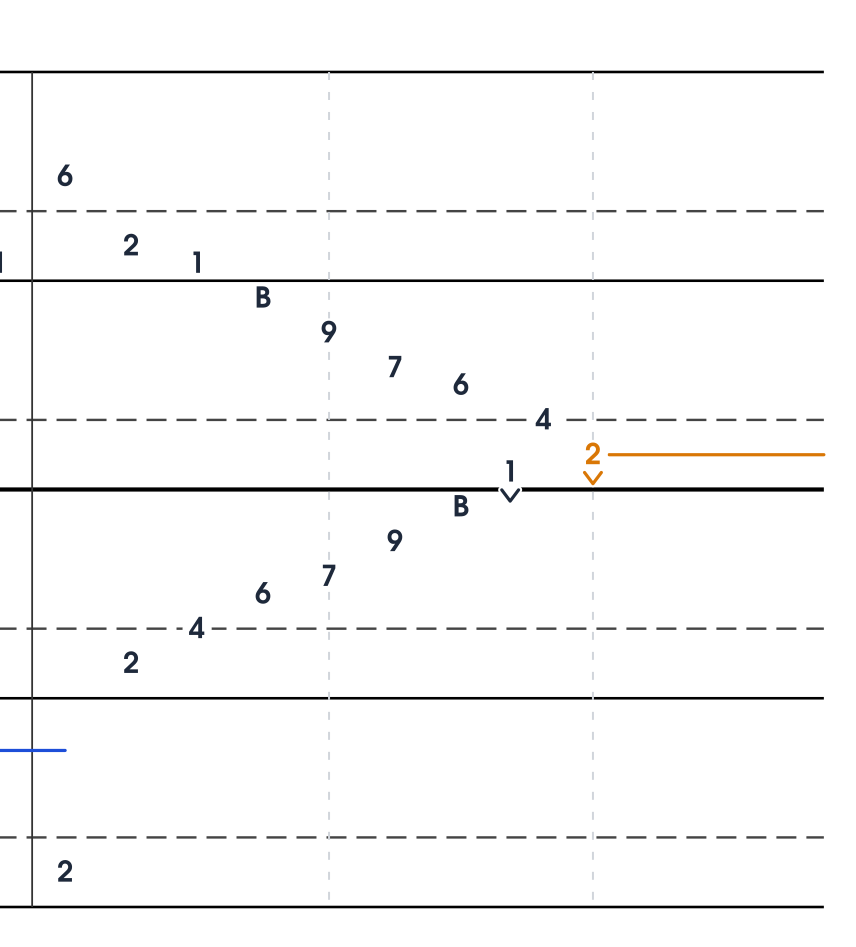
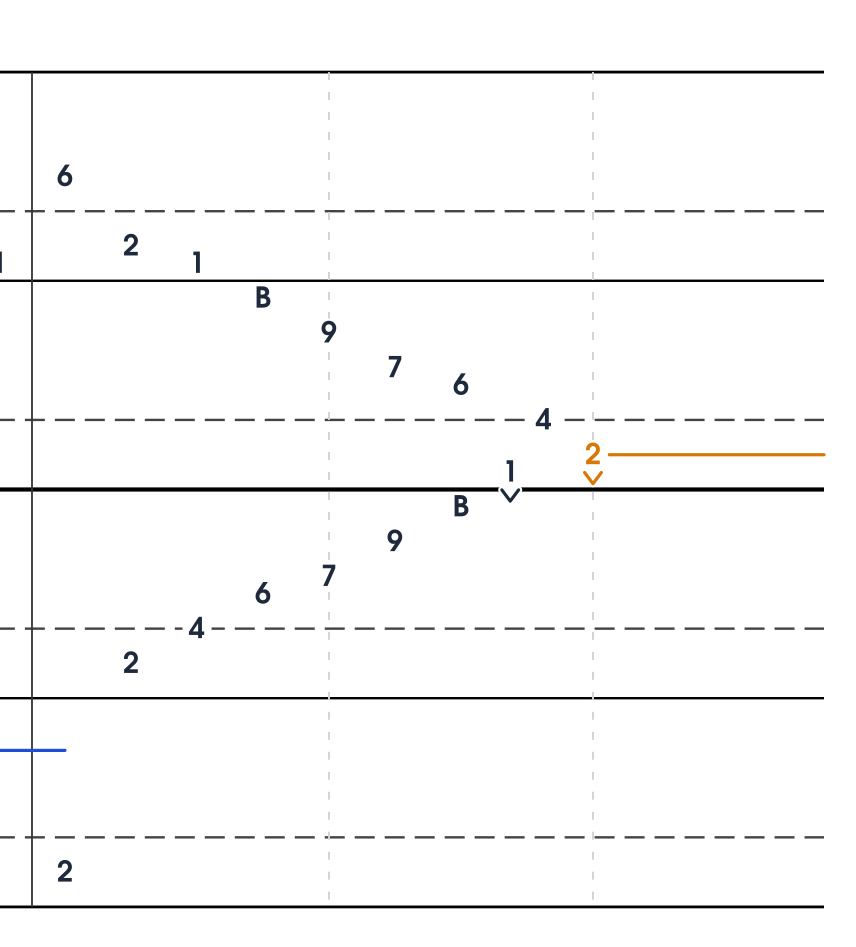
refactor(engraving): refine accolade offset and redistribute octave line weights
- Accolade: slender 7.5pt reach (1.91pt belly) with 1.8pt left breathing offset into margin
- Staff hierarchy: redistribute octave lines with zero net weight (outer 0.70pt, inner 0.60pt, Middle C 1.05pt)
- Barlines: slender 0.45pt visibly lighter than staff lines
- Update unit tests and regenerate docs crops

diff --git a/test/print-layout.test.ts b/test/print-layout.test.ts
@@ -10,6 +10,7 @@ import {
   getSystemGeometry,
   getVerticalAccoladePath,
   ACCOLADE_WIDTH_PT,
+  ACCOLADE_OFFSET_LEFT_PT,
   ACCOLADE_GAP_PT,
   ACCOLADE_THICKNESS_PT,
   NOTEHEAD_KNOCKOUT_RADIUS_PT,
@@ -192,15 +193,16 @@ test('Landscape 2-System Horizontal Engraving Invariant: 4-page spread for Bach 
   );
 });
 
-test('Classical Vertical Accolade Invariant: 8pt slender copperplate curly brace clasping o1–o5 on the left margin', () => {
+test('Classical Vertical Accolade Invariant: slender copperplate curly brace clasping o1–o5 on the left margin', () => {
   const score = buildBachGoldbergVar1Score();
   const layout = computeColumnarLayout(score);
   const svgs = renderAllPagesToSvg(layout);
 
-  // Classical curly brace proportions: 8.0pt reach, 2.0pt swell, 8.0pt margin gap
-  assert.equal(ACCOLADE_WIDTH_PT, 8.0, 'Accolade reach must be 8.0pt');
-  assert.equal(ACCOLADE_THICKNESS_PT, 2.0, 'Accolade swell must be 2.0pt');
+  // Classical curly brace proportions: 7.5pt reach, 1.9pt swell, 8.0pt margin gap, 1.8pt offset
+  assert.equal(ACCOLADE_WIDTH_PT, 7.5, 'Accolade reach must be 7.5pt');
+  assert.equal(ACCOLADE_THICKNESS_PT, 1.9, 'Accolade swell must be 1.9pt');
   assert.equal(ACCOLADE_GAP_PT, 8.0, 'Accolade gap must be 8.0pt');
+  assert.equal(ACCOLADE_OFFSET_LEFT_PT, 1.8, 'Accolade offset must be 1.8pt');
 
   // The exported path generator is deterministic and spans the requested vertical range
   const direct = getVerticalAccoladePath(65.0, 106.35, 231.15, 11.0, 2.4);
@@ -229,7 +231,7 @@ test('Classical Vertical Accolade Invariant: 8pt slender copperplate curly brace
   assert.match(path, /^M [\d.]+ [\d.]+ C [^"]+ Z$/, 'Accolade must be a closed sculptural path');
   assert.equal(
     path,
-    getVerticalAccoladePath(geo0.staffLeftPt, geo0.staffTopY, geo0.staffBotY, ACCOLADE_WIDTH_PT, ACCOLADE_THICKNESS_PT),
+    getVerticalAccoladePath(geo0.staffLeftPt - ACCOLADE_OFFSET_LEFT_PT, geo0.staffTopY, geo0.staffBotY, ACCOLADE_WIDTH_PT, ACCOLADE_THICKNESS_PT),
     'Rendered accolade must use the classical calligraphic curly brace geometry'
   );
 
@@ -260,15 +262,15 @@ test('Classical Vertical Accolade Invariant: 8pt slender copperplate curly brace
     `Accolade cusp must point at Middle C y(48) = ${y48.toFixed(2)}`
   );
 
-  // Brace tips clasp the open staff at staffLeftPt
-  assert.ok(Math.abs(maxX - geo0.staffLeftPt) < 0.01, 'Accolade tips must clasp the staff at staffLeft');
+  // Brace tips clasp the open staff at staffLeftPt - ACCOLADE_OFFSET_LEFT_PT
+  assert.ok(Math.abs(maxX - (geo0.staffLeftPt - ACCOLADE_OFFSET_LEFT_PT)) < 0.01, 'Accolade tips must clasp at staffLeft - offset');
   assert.ok(minX > 0, 'Accolade must remain inside the paper');
   assert.ok(
     Math.abs(geo0.staffLeftPt - (marginPt + ACCOLADE_WIDTH_PT + ACCOLADE_GAP_PT)) < 0.01,
     'The staff must open exactly one accolade + gap from the margin'
   );
 
-  // Classical curly brace aspect ratio (~1:10 to 1:20)
+  // Classical curly brace aspect ratio (~1:10 to 1:30)
   const width = maxX - minX;
   const aspect = (geo0.staffBotY - geo0.staffTopY) / width;
   assert.ok(aspect > 10 && aspect < 30, `Accolade aspect ratio must be elegant (got 1:${aspect.toFixed(1)})`);
@@ -305,13 +307,14 @@ test('Horizontal Staff Topography Invariant: Middle C spine, octave lines, landm
     assert.ok(Math.abs(spineLines[0].x1 - geo.staffLeftPt) < 0.01, 'Spine must emerge cleanly from the accolade at the staff head');
     assert.ok(Math.abs(spineLines[0].x2 - geo.staffRightPt) < 0.01, 'Spine must run to the page margin');
 
-    // 2. Octaves (p = 24, 36, 60, 72): solid horizontal lines (0.65pt, #000000)
+    // 2. Octaves: outer octaves (p = 24, 72) at 0.70pt; inner octaves (p = 36, 60) at 0.60pt
     for (const octavePitch of [24, 36, 60, 72]) {
       const y = round2(geo.yForPitch(octavePitch));
+      const expectedWidth = (octavePitch === 24 || octavePitch === 72) ? '0.7' : '0.6';
       const octaveLines = lines.filter(
-        (l) => l.y1 === l.y2 && l.stroke === '#000000' && l.width === '0.65' && round2(l.y1) === y
+        (l) => l.y1 === l.y2 && l.stroke === '#000000' && l.width === expectedWidth && round2(l.y1) === y
       );
-      assert.equal(octaveLines.length, 1, `System ${s + 1} octave line p=${octavePitch} must be horizontal`);
+      assert.equal(octaveLines.length, 1, `System ${s + 1} octave line p=${octavePitch} must be horizontal with width ${expectedWidth}`);
     }
 
     // 3. Landmark 4 (p = 28, 40, 52, 64): small horizontal dashed lines (0.6pt, #444444, [5, 2.5])
@@ -571,7 +574,7 @@ test('Flush Duration Hold Lines & Subsequent Note Clipping Invariant', () => {
           x2: round2(holdEndX),
           y: round2(ny),
           stroke: getPrintDurationColor(note.durationTicks, tauRef),
-          width: lp === 48 ? '1.05' : '0.65',
+          width: lp === 48 ? '1.05' : (lp <= 24 || lp >= 72 ? '0.7' : '0.6'),
           cap: 'butt',
         });
       } else {
@@ -682,11 +685,11 @@ test('Flush Duration Hold Lines & Subsequent Note Clipping Invariant', () => {
     for (const p of [24, 36, 60, 72]) octaveYs.add(round2(geo.yForPitch(p)));
   }
   for (const trail of lineTrails) {
-    assert.ok(trail.width === '0.65' || trail.width === '1.05', 'Staff-line trails match staff line width');
+    assert.ok(trail.width === '0.6' || trail.width === '0.7' || trail.width === '1.05', 'Staff-line trails match staff line width');
     if (trail.width === '1.05') {
       assert.ok(middleCYs.has(round2(trail.y1)), 'Middle C trails must render at 1.05pt on the bold spine');
     } else {
-      assert.ok(octaveYs.has(round2(trail.y1)), 'Other staff-line trails must render at 0.65pt on octave lines');
+      assert.ok(octaveYs.has(round2(trail.y1)), 'Other staff-line trails must render at 0.6pt or 0.7pt on octave lines');
     }
   }
 

diff --git a/src/render/print-layout.ts b/src/render/print-layout.ts
@@ -38,11 +38,13 @@ export const OPENING_HALO_RADIUS_PT = 4.75;
 /** Noble Urtext Gold stroke for the opening sound position of honor halo ring. */
 export const OPENING_HALO_STROKE = '#D4AF37';
 /** Classical architectural reach of the vertical accolade cusp from the staff edge. */
-export const ACCOLADE_WIDTH_PT = 8.0;
+export const ACCOLADE_WIDTH_PT = 7.5;
+/** Delicate margin offset giving breathing gap between accolade tips and staff lines. */
+export const ACCOLADE_OFFSET_LEFT_PT = 1.8;
 /** Margin breathing gap accommodating the classical accolade on System 1. */
 export const ACCOLADE_GAP_PT = 8.0;
 /** Delicate calligraphic swell of the accolade in its lobe bellies. */
-export const ACCOLADE_THICKNESS_PT = 2.0;
+export const ACCOLADE_THICKNESS_PT = 1.9;
 
 const HEADER_HEIGHT_PT = 18;
 const FOOTER_HEIGHT_PT = 0;
@@ -690,7 +692,8 @@ function getHorizontalStaffLine(p: number, normStyle: StaffStyle): HorizontalSta
   if (normStyle === 'tritone-split') {
     if (pc === 0) {
       if (p === 48) return { stroke: '#000000', width: 1.05, isSpine: true };
-      return { stroke: '#000000', width: 0.65, isSpine: false };
+      if (p <= 24 || p >= 72) return { stroke: '#000000', width: 0.70, isSpine: false };
+      return { stroke: '#000000', width: 0.60, isSpine: false };
     }
     if (pc === 4) {
       return { stroke: '#444444', width: 0.6, dashArray: '5,2.5', isSpine: false };
@@ -704,7 +707,10 @@ function getHorizontalStaffLine(p: number, normStyle: StaffStyle): HorizontalSta
     return { stroke: '#444444', width: 0.6, dashArray: geom.dashArray.join(','), isSpine: false };
   }
   if (p === 48) return { stroke: '#000000', width: 1.05, isSpine: true };
-  if (pc === 0) return { stroke: '#000000', width: 0.65, isSpine: false };
+  if (pc === 0) {
+    if (p <= 24 || p >= 72) return { stroke: '#000000', width: 0.70, isSpine: false };
+    return { stroke: '#000000', width: 0.60, isSpine: false };
+  }
   return { stroke: '#555555', width: 0.6, isSpine: false };
 }
 
@@ -824,7 +830,7 @@ export function renderPageToSvg(
 
       // Authentic Classical Accolade Curly Brace clasping o5 to o1
       svgParts.push(`    <!-- Classical Vertical Accolade (Curly Brace) clasping o1 to o5 -->`);
-      svgParts.push(`    <path class="accolade" d="${getVerticalAccoladePath(staffLeft, staffTop, staffBot, ACCOLADE_WIDTH_PT, ACCOLADE_THICKNESS_PT)}" fill="#111827"/>`);
+      svgParts.push(`    <path class="accolade" d="${getVerticalAccoladePath(staffLeft - ACCOLADE_OFFSET_LEFT_PT, staffTop, staffBot, ACCOLADE_WIDTH_PT, ACCOLADE_THICKNESS_PT)}" fill="#111827"/>`);
     } else {
       // Regular start for subsequent systems
       svgParts.push(`    <!-- Urtext Measure Number in Dedicated Left Margin -->`);
@@ -993,7 +999,7 @@ export function renderPageToSvg(
 
       if (pc12(lp) === 0) {
         if (holdEndX - holdStartX < 1.5) continue;
-        const strokeW = lp === 48 ? '1.05' : '0.65';
+        const strokeW = lp === 48 ? '1.05' : (lp <= 24 || lp >= 72 ? '0.7' : '0.6');
         svgParts.push(`    <line x1="${holdStartX.toFixed(2)}" y1="${ny.toFixed(2)}" x2="${holdEndX.toFixed(2)}" y2="${ny.toFixed(2)}" stroke="${noteColor}" stroke-width="${strokeW}" stroke-linecap="butt"/>`);
       } else {
         holdStartX = nx + effectiveRadius + 0.4;

diff --git a/public/gallery.html b/public/gallery.html
@@ -20,18 +20,18 @@
   <h2>1. Classical Accolade &amp; Master Engraving</h2>
   <div class="grid">
     <div class="card">
-      <h3>Measures 1–2 (Slender Copperplate LilyPond Accolade &amp; Gold Incipit)</h3>
-      <img src="/img/definitive_m1_m2.png?v=copperplate-slender" alt="Measures 1-2 Definitive Start">
-      <p>System 1 classical LilyPond/Emmentaler brace396 curly brace with slender copperplate bellies (2.04pt vs 2.80pt / 4.27pt), delicate waist, and horizontal Middle C beak; zero vertical starting line; 1.05pt Middle C spine; 0.45pt vertical barline (30% thinner than 0.65pt octave line); opening '7' digits framed by a noble gold halo ring (#D4AF37) with balanced optical centering; measure number 1 isolated in left margin; mathematically symmetric note spacing across the m. 1–2 barline.</p>
+      <h3>Measures 1–2 (Slender Offset Accolade, Redistributed Octave Hierarchy &amp; Gold Incipit)</h3>
+      <img src="/img/definitive_m1_m2.png?v=copperplate-offset" alt="Measures 1-2 Definitive Start">
+      <p>System 1 classical LilyPond/Emmentaler curly brace shifted slightly into the margin (1.8pt breathing gap) with slender bellies (1.91pt, 7.5pt reach); zero starting vertical line; strict conservation of octave ink weight with outer bounds (o1/o5) at 0.70pt and inner lines (o2/o4) at 0.60pt around the authoritative 1.05pt Middle C spine; 0.45pt barlines; opening '7' digits framed by a noble gold halo ring (#D4AF37) with balanced optical centering; measure number 1 isolated in left margin; mathematically symmetric note spacing across the m. 1–2 barline.</p>
     </div>
     <div class="card">
       <h3>Page 1 (Measures 1–8 Spread)</h3>
-      <img src="/img/page1_4.25.png?v=copperplate-slender" alt="Page 1">
-      <p>Majestic centered Urtext title heading (Variatio 1 · a 1 Clav. centered, Goldberg Variations on left, J. S. Bach on right), two spacious horizontal systems (System 1 with slender accolade, System 2 with open start, zero starting vertical lines, zero closing system end lines), vast vertical whitespace gutter, measure numerals 1 and 5 cleanly isolated in left margin.</p>
+      <img src="/img/page1_4.25.png?v=copperplate-offset" alt="Page 1">
+      <p>Majestic centered Urtext title heading (Variatio 1 · a 1 Clav. centered, Goldberg Variations on left, J. S. Bach on right), two spacious horizontal systems (System 1 with slender offset accolade, System 2 with open start, zero starting vertical lines, zero closing system end lines), vast vertical whitespace gutter, measure numerals 1 and 5 cleanly isolated in left margin.</p>
     </div>
     <div class="card">
       <h3>Page 4 (Measures 25–32 &amp; Final Double Barline)</h3>
-      <img src="/img/page4_4.25.png?v=copperplate" alt="Page 4">
+      <img src="/img/page4_4.25.png?v=copperplate-offset" alt="Page 4">
       <p>System 7 with open right end (no closing barline); System 8 concluding with the authoritative classical final double barline on measure 32; Measures 29–30 feature local dashed outlier line (pitch 76) with ample vertical breathing room.</p>
     </div>
   </div>
